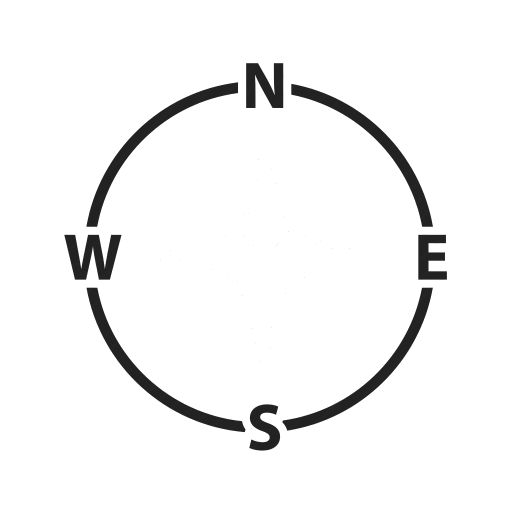
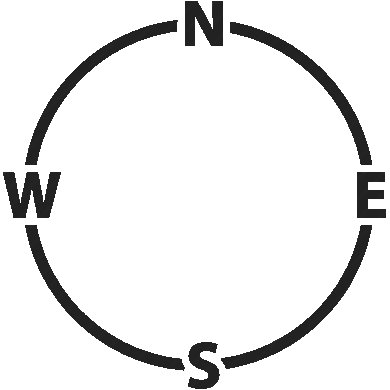
20151020_08

Changed region(s): [[0.0, 0.0, 1.0, 1.0]]

diff --git a/www/index.html b/www/index.html
@@ -37,29 +37,19 @@
             <tr>
                 <td align="center">
                     <div id="divLine1" style="text-align: center;font-size: x-large;" >
-                        &nbsp;&nbsp;Acceleration <br/>
-                        &nbsp;&nbsp;X: <span id="Xposition_a" style="width: 300px">0</span></br>
-                        &nbsp;&nbsp;Y: <span id="Yposition_a" style="width: 300px">0</span></br>
-                        &nbsp;&nbsp;Z: <span id="Zposition_a" style="width: 300px">0</span></br>
-                        </br>
                         &nbsp;&nbsp;Acceleration including gravity <br/>
                         &nbsp;&nbsp;X: <span id="Xposition" style="width: 300px">0</span></br>
                         &nbsp;&nbsp;Y: <span id="Yposition" style="width: 300px">0</span></br>
                         &nbsp;&nbsp;Z: <span id="Zposition" style="width: 300px">0</span></br>
-                        </br>
-                        &nbsp;&nbsp;Rotation Rate <br/>
-                        &nbsp;&nbsp;X: <span id="Xposition_r" style="width: 300px">0</span></br>
-                        &nbsp;&nbsp;Y: <span id="Yposition_r" style="width: 300px">0</span></br>
-                        &nbsp;&nbsp;Z: <span id="Zposition_r" style="width: 300px">0</span></br>
                     </div>
                 </td>
             </tr>
             <tr>
                 <td align="center">
                     <div id="divLine2" style="text-align: center;" >
-                        <button id="obtenerXYZ" onclick="obtenerXYZ();" style="font-size: x-large">Obtener Posicionamiento</button>
-                        <br/>
-                        <button id="obtenerXYZ_2" onclick="obtenerXYZ_Motion();" style="font-size: x-large">Obtener Posicionamiento Motion</button>
+                        <button id="obtenerXYZ_2" onclick="obtenerXYZ_Motion();" style="font-size: x-large">START POSITION</button>
+                        &nbsp;&nbsp;&nbsp;
+                        <button id="obtenerXYZ" onclick="obtenerXYZ_Motion_Stop();" style="font-size: x-large">STOP POSITION</button>
                     </div>
                 </td>
             </tr>
@@ -81,14 +71,16 @@
                 <td align="center">
                     <div id="divBrujula2" style="text-align: center;" >
                         <div id="divCompass">
-                            <div id="divCompassGraph">
-                                <img src="img/rose.png" width="500px" height="500px">
-                                <div id="arrow" style="position: relative;top:-360px;left:7px" >
+                            <div id="divCompassGraph" style="position: relative;top:0px;left:0px">
+                                <img src="img/rose.png" width="390px" height="390px">
+                                <div id="arrow" style="position: relative;top:-295px;left:0px" >
                                     <img src="img/arrow.png" width="200px" height="200px">
                                 </div>
+                                <div id="arrowButtons" style="position: relative;top:-150px;left:0px" >
+                                    <button onclick="startWatch();" style="font-size: x-large">START COMPASS</button>
+                                    <button onclick="stopWatch();" style="font-size: x-large">STOP COMPASS</button>
+                                </div>
                             </div>
-                            <button onclick="startWatch();" style="font-size: x-large">Start Watching</button>
-                            <button onclick="stopWatch();" style="font-size: x-large">Stop Watching</button>
                         </div>
                     </div>
                 </td>

diff --git a/www/js/position.js b/www/js/position.js
@@ -52,14 +52,25 @@ function onError() {
 }
 
 
+function obtenerXYZ_Motion_Stop(e) {
+    try
+    {
+        Xposition.innerHTML = '0.00';
+        Yposition.innerHTML = '0.00';
+        Zposition.innerHTML = '0.00';
+
+        window.removeEventListener("devicemotion", deviceMotionUpdate, true);
+    }
+    catch (ex9){alert('Error obtenerXYZ_Motion_Stop: '+ex9.message);}
+}
+
 function obtenerXYZ_Motion(e){
 
-    var sensorAcc = null;
     try
     {
         window.addEventListener("devicemotion", deviceMotionUpdate, true);
     }
-    catch (ex9){alert('Error exception: '+ex9.message);}
+    catch (ex9){alert('Error obtenerXYZ_Motion: '+ex9.message);}
 }
 
 function deviceMotionUpdate(e){
